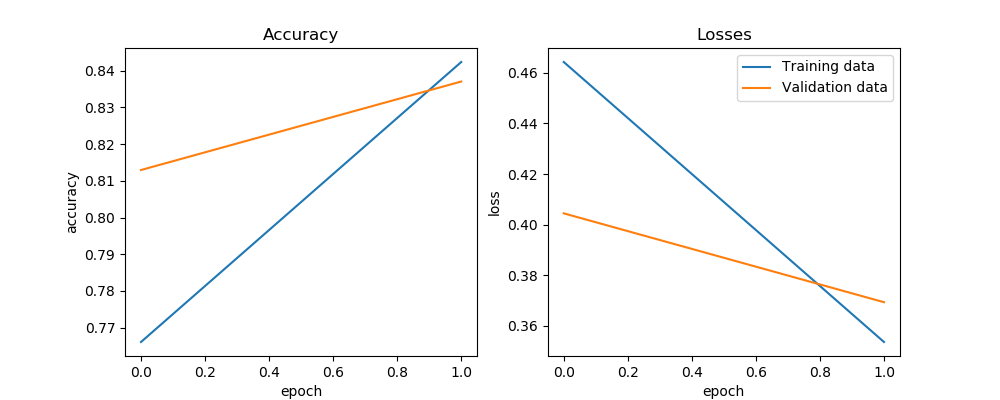
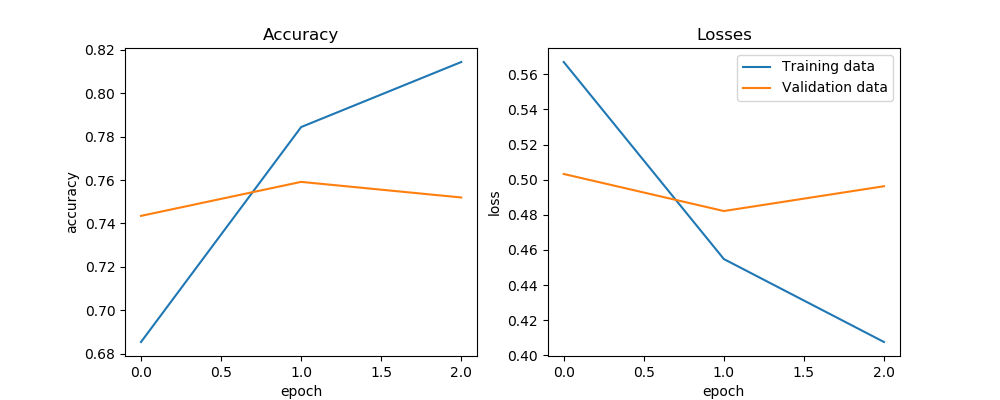
removed autosave

diff --git a/imdb/train_model.py b/imdb/train_model.py
@@ -1,21 +1,21 @@
 from keras.preprocessing import sequence
 from keras.models import Sequential
 from keras.layers import Dense, Dropout, Activation
-from keras.layers import Embedding
+from keras.layers import Embedding, Flatten
 from keras.layers import Conv1D, GlobalMaxPooling1D
 from keras.datasets import imdb
 import matplotlib.pyplot as plt
 
-max_features = 500
-maxlen = 400
+max_features = 5000
+maxlen = 20
 
-embedding_dims = 50
+embedding_dims = 10
 filters = 250
 kernel_size = 3
 hidden_dims = 250
 
 batch_size = 32
-epochs = 2
+epochs = 3
 
 def plot_history(history, filename=None, show=True):
     """ Plots accuracy and loss. """
@@ -58,7 +58,7 @@ def main():
     model = Sequential()
 
     # start off with an efficient embedding layer which maps
-    # our vocab indices into embedding_dims dimensions
+    # our vocabulary indices into embedding_dims dimensions
     model.add(Embedding(max_features,
                         embedding_dims,
                         input_length=maxlen))
@@ -78,19 +78,21 @@ def main():
     model.add(Activation('relu'))
 
     # project onto a single unit output layer, and squash it with a sigmoid:
-    model.add(Dense(1))
-    model.add(Activation('sigmoid'))
+    model.add(Dense(1, activation='sigmoid'))
+    #model.add(Activation('sigmoid'))
 
     model.compile(loss='binary_crossentropy',
                 optimizer='adam',
                 metrics=['accuracy'])
     
+    model.summary()
+
     history = model.fit(x_train, y_train,
             batch_size=batch_size,
             epochs=epochs,
             validation_data=(x_test, y_test))
 
-    plot_history(history, filename="images/imdb.png")
+    plot_history(history)
 
 if __name__ == "__main__":
     main()

diff --git a/mnist/train_wdropout.py b/mnist/train_wdropout.py
@@ -61,7 +61,7 @@ def main():
     print('Final loss:', score[0])
     print('Final accuracy:', score[1])
 
-    common.plot_history(history, filename="images/model_512n_wdropout.png")
+    common.plot_history(history)
 
 if __name__ == "__main__":
     main()

diff --git a/mnist/train_simple.py b/mnist/train_simple.py
@@ -62,7 +62,7 @@ def main():
     print('Final score:', score[0])
     print('Final accuracy:', score[1])
 
-    common.plot_history(history, filename="images/model_28n.png")
+    common.plot_history(history)
 
 if __name__ == "__main__":
     main()

diff --git a/imdb/train_simple.py b/imdb/train_simple.py
@@ -93,7 +93,7 @@ def main():
             epochs=epochs,
             validation_data=(x_val, y_val))
 
-    plot_history(history, filename="images/imdb_simple.png")
+    plot_history(history)
 
 if __name__ == "__main__":
     main()
